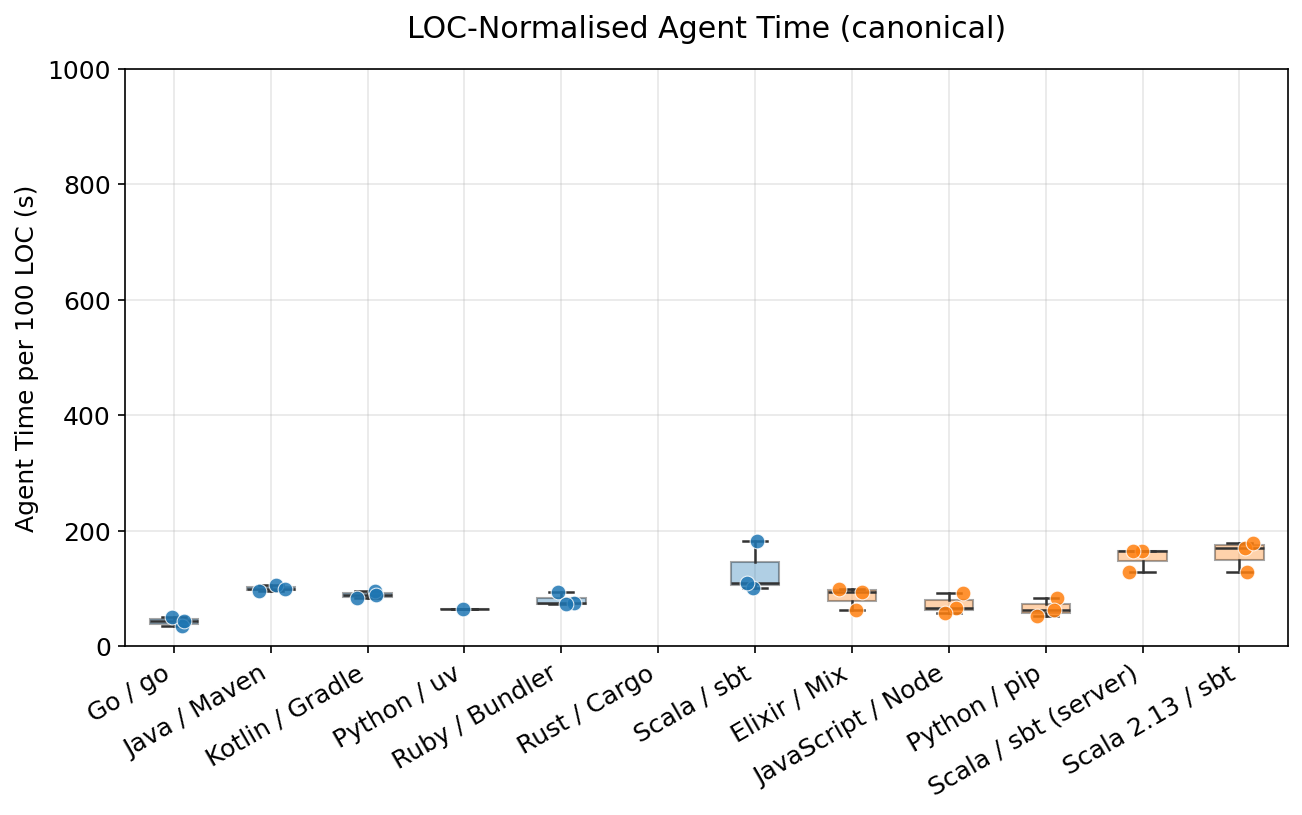
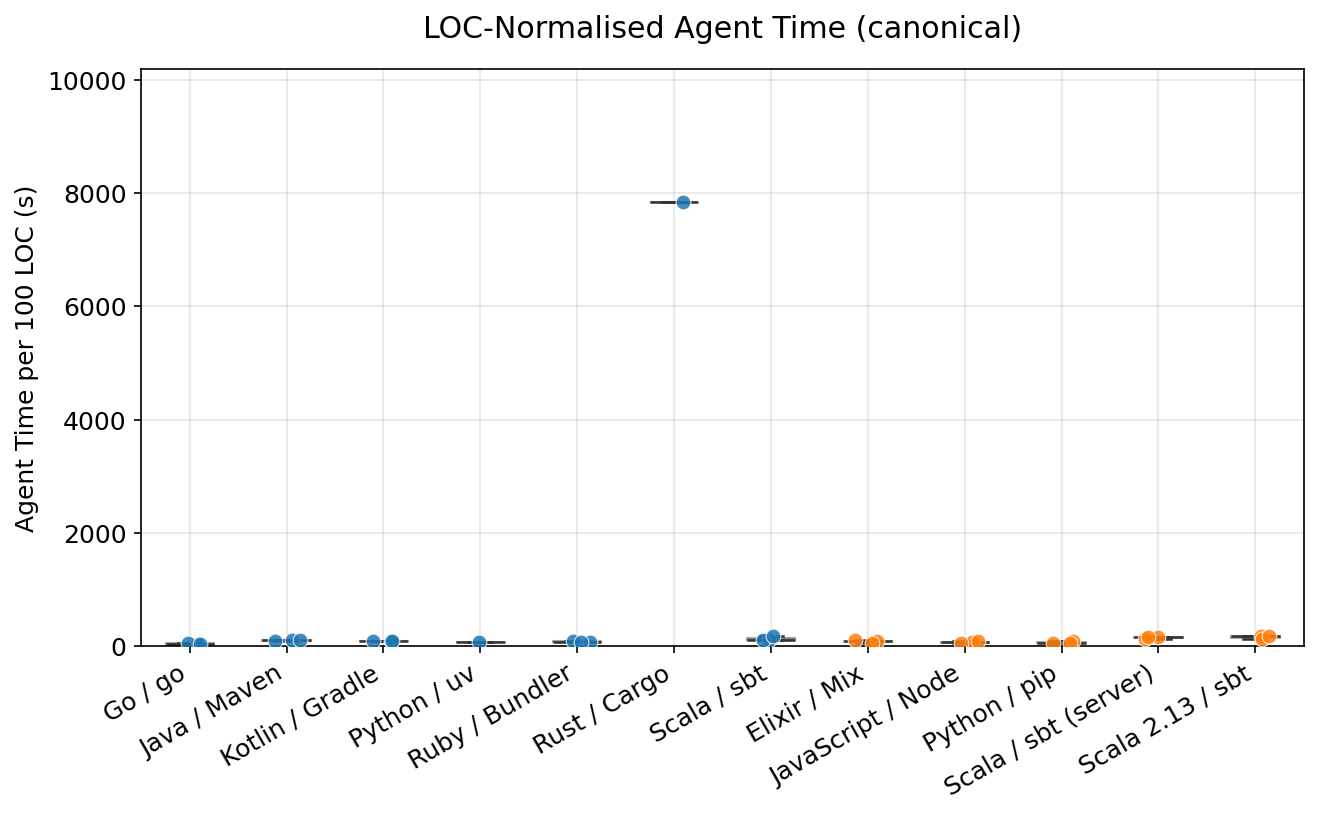
Fix chart y-axis: dynamic range for time_per_100loc, zoom in on cost charts
- time_per_100loc: replace fixed top=1000 with max_val*1.3 so data fills the chart
- total_cost and time_vs_cost: set bottom to min*0.7 so small differences are visible

diff --git a/plot.py b/plot.py
@@ -255,6 +255,8 @@ def main() -> None:
     fig, ax = plt.subplots(figsize=(10, 5))
     boxdot(ax, df, "total_cost", ylabel="Cost (USD)", title=f"MiniGit Cost (v1+v2, {title_suffix})")
     ax.yaxis.set_major_formatter(ticker.FormatStrFormatter("$%.2f"))
+    cost_min = df["total_cost"].min()
+    ax.set_ylim(bottom=max(0, cost_min * 0.7))
     save(fig, args.outdir, "total_cost")
 
     fig, ax = plt.subplots(figsize=(10, 5))
@@ -284,6 +286,8 @@ def main() -> None:
     fig, ax = plt.subplots(figsize=(8, 6))
     scatter(ax, df, "total_agent_time", "total_cost", title=f"Agent Time vs Cost ({title_suffix})", ylabel="Cost (USD)")
     ax.yaxis.set_major_formatter(ticker.FormatStrFormatter("$%.2f"))
+    cost_min = df["total_cost"].min()
+    ax.set_ylim(bottom=max(0, cost_min * 0.7))
     save(fig, args.outdir, "total_time_vs_cost")
 
     fig, ax = plt.subplots(figsize=(8, 6))
@@ -300,7 +304,8 @@ def main() -> None:
     if not loc_df.empty:
         fig, ax = plt.subplots(figsize=(10, 5))
         boxdot(ax, loc_df, "time_per_100loc", ylabel="Agent Time per 100 LOC (s)", title=f"LOC-Normalised Agent Time ({title_suffix})")
-        ax.set_ylim(bottom=0, top=1000)
+        max_val = loc_df["time_per_100loc"].max()
+        ax.set_ylim(bottom=0, top=max_val * 1.3)
         save(fig, args.outdir, "time_per_100loc")
 
         fig, ax = plt.subplots(figsize=(10, 5))
